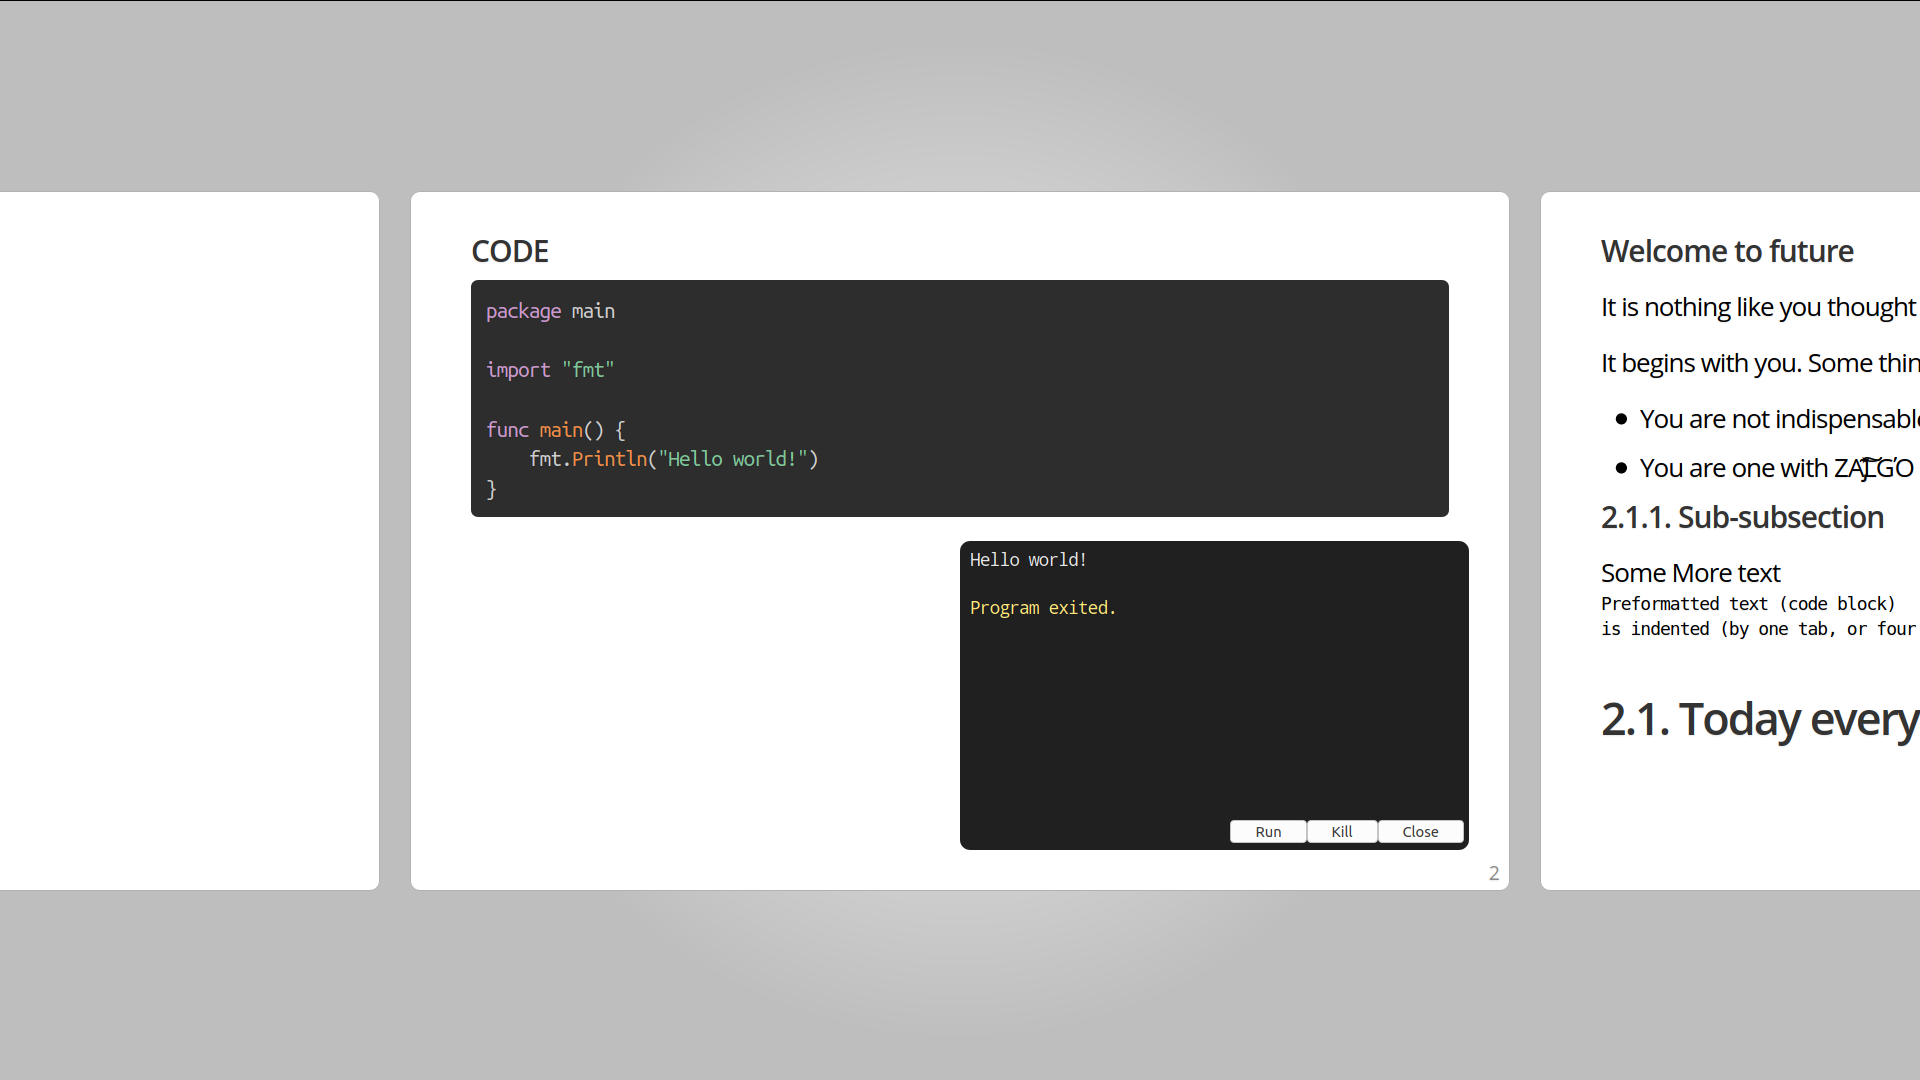
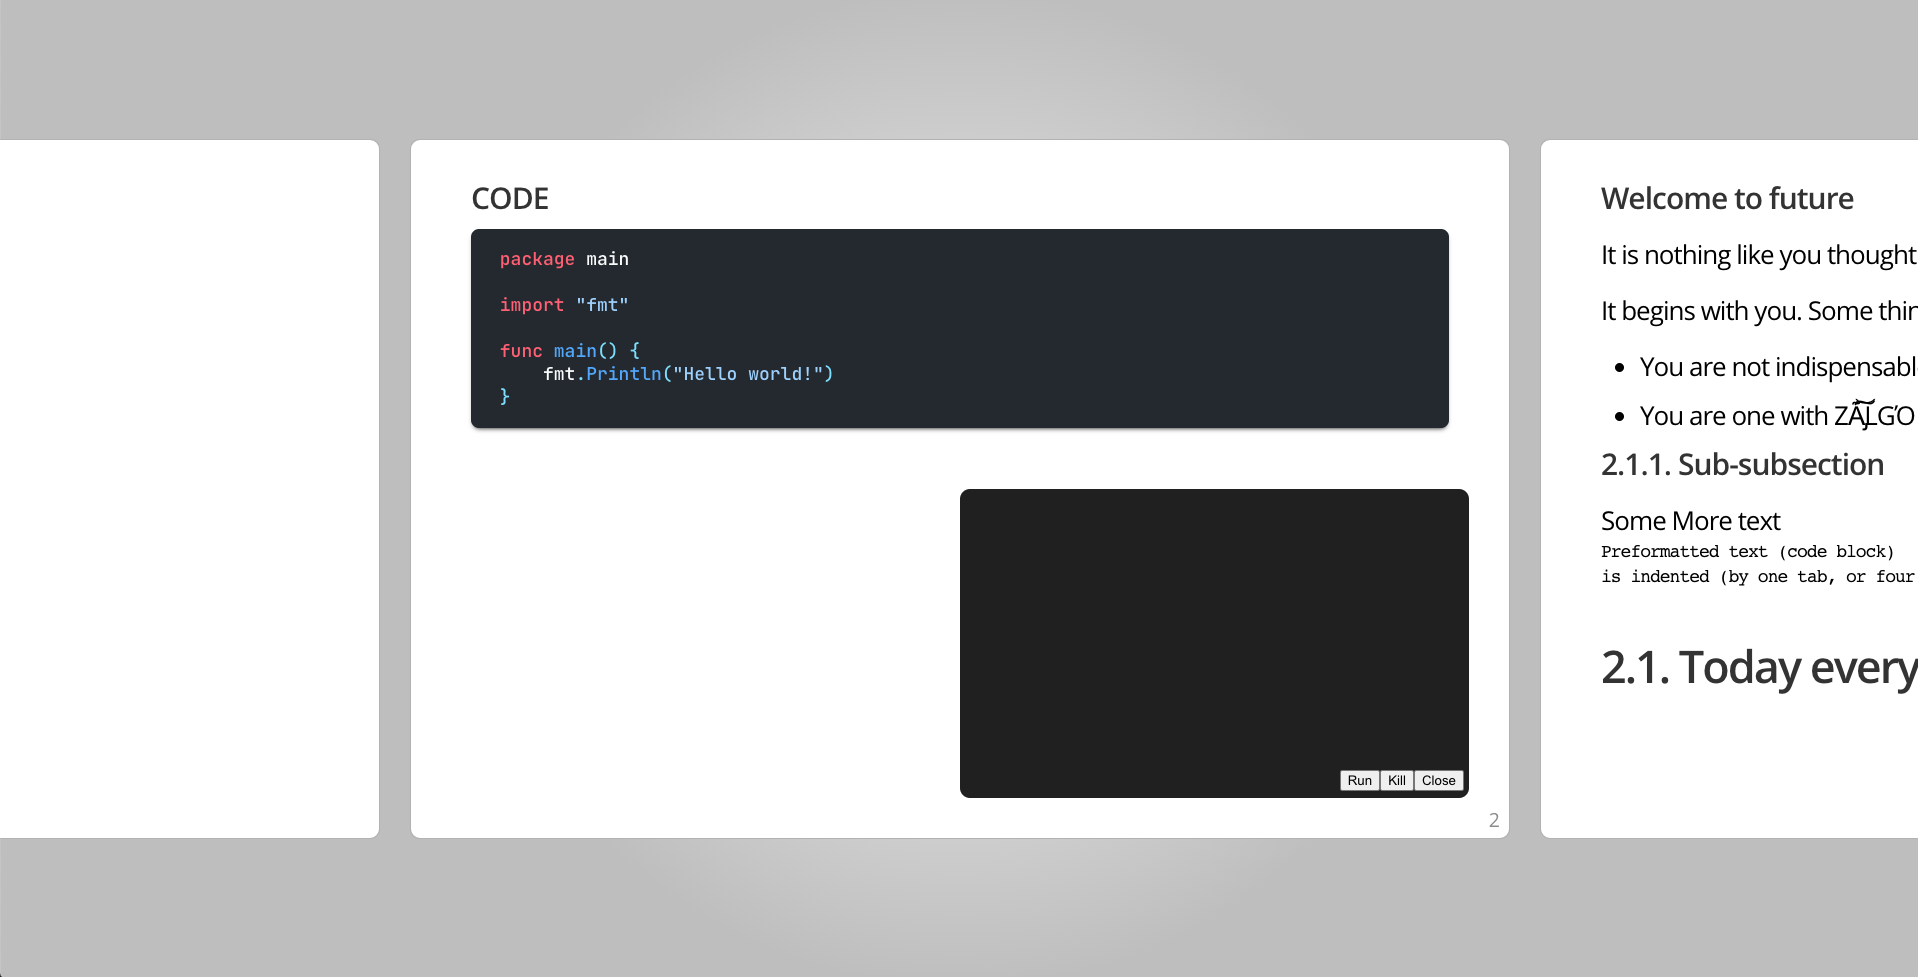
Replace current prism theme with github dark

diff --git a/static/prism-github-dark.css b/static/prism-github-dark.css
@@ -1,0 +1,249 @@
+@font-face {
+  font-family: "JetBrains Mono";
+  src: url("https://raw.githubusercontent.com/JetBrains/JetBrainsMono/master/fonts/webfonts/JetBrainsMono-Medium.eot")
+      format("embedded-opentype"),
+    url("https://raw.githubusercontent.com/JetBrains/JetBrainsMono/master/fonts/webfonts/JetBrainsMono-Medium.woff2")
+      format("woff2"),
+    url("https://raw.githubusercontent.com/JetBrains/JetBrainsMono/master/fonts/webfonts/JetBrainsMono-Medium.woff")
+      format("woff"),
+    url("https://raw.githubusercontent.com/JetBrains/JetBrainsMono/master/fonts/ttf/JetBrainsMono-Medium.ttf")
+      format("truetype");
+  font-weight: normal;
+  font-style: normal;
+}
+
+.slides > article {
+  text-shadow: none !important;
+}
+
+div.code {
+  background: #24292e !important;
+  border-radius: 0.5rem;
+  box-shadow: 0 3px 6px -3px rgba(0, 0, 0.1);
+  padding: 1.2rem 1.8rem !important;
+  border: none !important;
+  margin: 0.5em 0;
+}
+
+code[class*="language-"],
+pre[class*="language-"] {
+  text-align: left;
+  white-space: pre;
+  word-spacing: normal;
+  word-break: normal;
+  word-wrap: normal;
+  hyphens: none;
+  color: inherit;
+  text-shadow: none;
+  font-family: "JetBrains Mono", monospace;
+
+  -webkit-font-feature-settings: "liga" on, "calt" on;
+  -webkit-font-smoothing: antialiased;
+  text-rendering: optimizeLegibility;
+
+  line-height: 1.3em;
+  font-weight: 500;
+  letter-spacing: 0 !important;
+}
+
+code[class*="language-"]::-moz-selection,
+pre[class*="language-"]::-moz-selection,
+code[class*="language-"] ::-moz-selection,
+pre[class*="language-"] ::-moz-selection {
+  text-shadow: none;
+  opacity: 1;
+  color: #fafbfc;
+  background: #363636;
+}
+
+code[class*="language-"]::selection,
+pre[class*="language-"]::selection,
+code[class*="language-"] ::selection,
+pre[class*="language-"] ::selection {
+  text-shadow: none;
+  opacity: 1;
+  color: #fafbfc;
+  background: #363636;
+}
+
+@media print {
+  code[class*="language-"],
+  pre[class*="language-"] {
+    text-shadow: none !important;
+  }
+}
+
+:not(pre) > code[class*="language-"] {
+  white-space: normal;
+  color: #fafbfc;
+  background: #24292e;
+  border-radius: 0.2em;
+}
+
+pre > code[class*="language-"] {
+  background: none;
+}
+
+pre[class*="language-"] {
+  overflow: auto;
+  position: relative;
+  color: #fafbfc;
+  background: #24292e;
+  border-radius: 0;
+}
+
+pre[class*="language-"].language-css > code,
+pre[class*="language-"].language-sass > code,
+pre[class*="language-"].language-scss > code {
+  color: #fd9170;
+}
+
+[class*="language-"] .namespace {
+  opacity: 0.7;
+}
+
+.token.atrule {
+  color: #ff6171;
+}
+
+.token.attr-name {
+  color: #ffcb6b;
+}
+
+.token.attr-value {
+  color: #b392f0;
+}
+
+.token.attribute {
+  color: #b392f0;
+}
+
+.token.boolean {
+  color: #ff6171;
+}
+
+.token.builtin {
+  color: #ff6171;
+}
+
+.token.cdata {
+  color: #80cbc4;
+}
+
+.token.char {
+  color: #80cbc4;
+}
+
+.token.class {
+  color: #ffcb6b;
+}
+
+.token.class-name {
+  color: #b392f0;
+}
+
+.token.comment {
+  color: #6a737d;
+}
+
+.token.constant {
+  color: #ff6171;
+}
+
+.token.deleted {
+  color: #b392f0;
+}
+
+.token.doctype {
+  color: #6a737d;
+}
+
+.token.entity {
+  color: #b392f0;
+}
+
+.token.function {
+  color: #61a7ff;
+}
+
+.token.hexcode {
+  color: #61a7ff;
+}
+
+.token.id {
+  color: #ff6171;
+  font-weight: bold;
+}
+
+.token.important {
+  color: #ff6171;
+  font-weight: bold;
+}
+
+.token.inserted {
+  color: #80cbc4;
+}
+
+.token.keyword {
+  color: #ff6171;
+}
+
+.token.number {
+  color: #fd9170;
+}
+
+.token.operator {
+  color: #89ddff;
+}
+
+.token.prolog {
+  color: #6a737d;
+}
+
+.token.property {
+  color: #fafbfc;
+}
+
+.token.pseudo-class {
+  color: #b392f0;
+}
+
+.token.pseudo-element {
+  color: #b392f0;
+}
+
+.token.punctuation {
+  color: #89ddff;
+}
+
+.token.regex {
+  color: #61a7ff;
+}
+
+.token.selector {
+  color: #b392f0;
+}
+
+.token.string {
+  color: #a3d0ff;
+}
+
+.token.symbol {
+  color: #ff6171;
+}
+
+.token.tag {
+  color: #b392f0;
+}
+
+.token.unit {
+  color: #fd9170;
+}
+
+.token.url {
+  color: #b392f0;
+}
+
+.token.variable {
+  color: #b392f0;
+}
